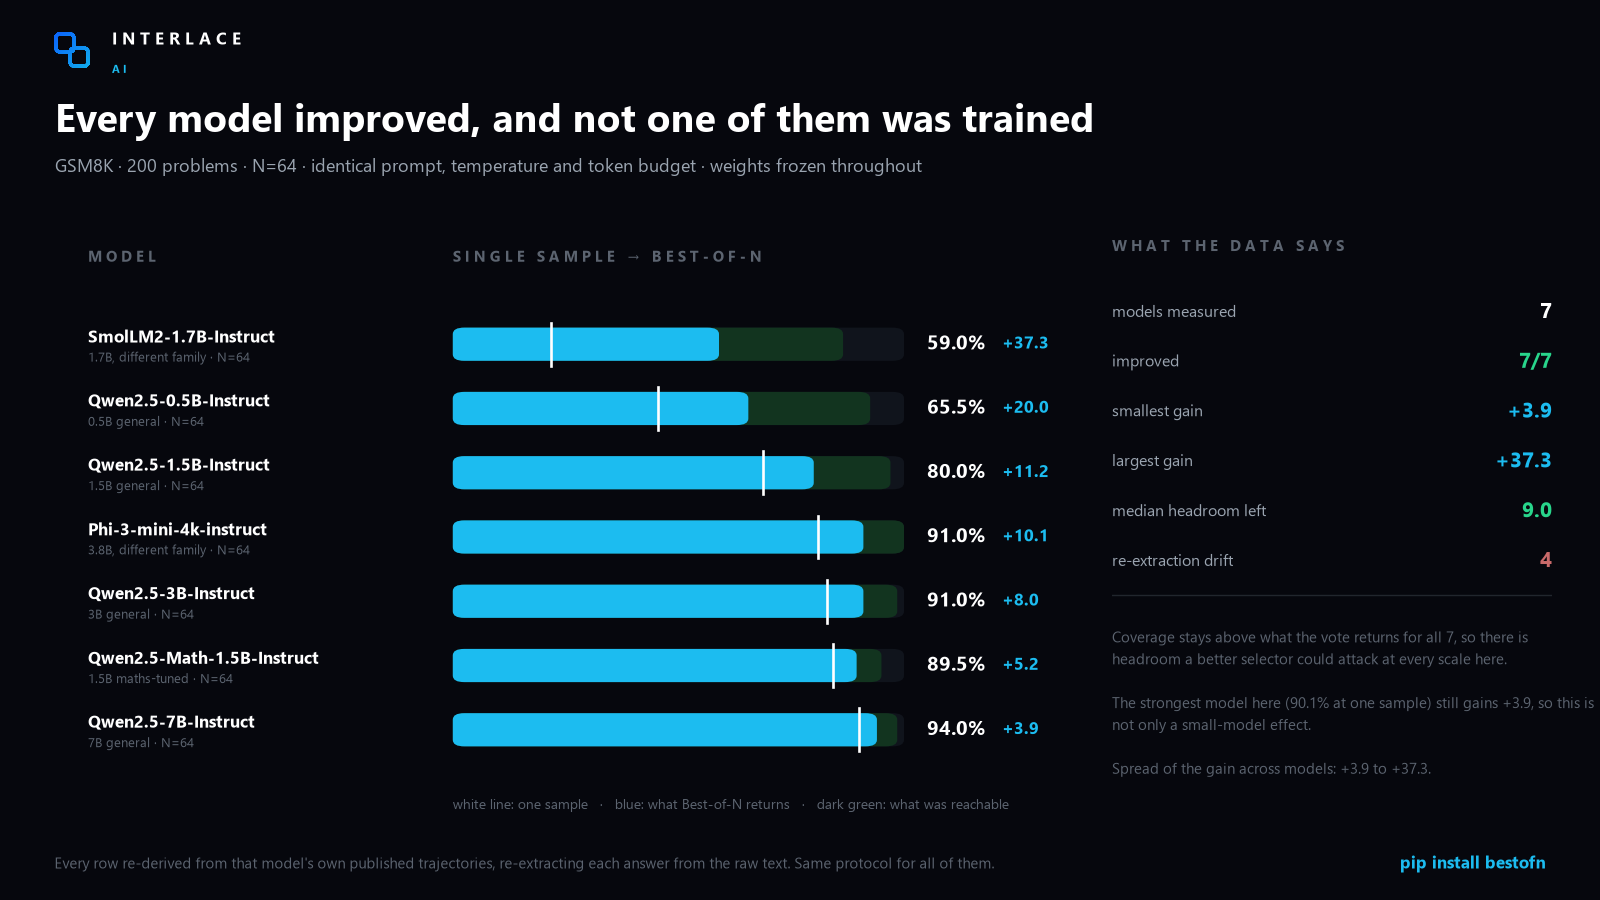
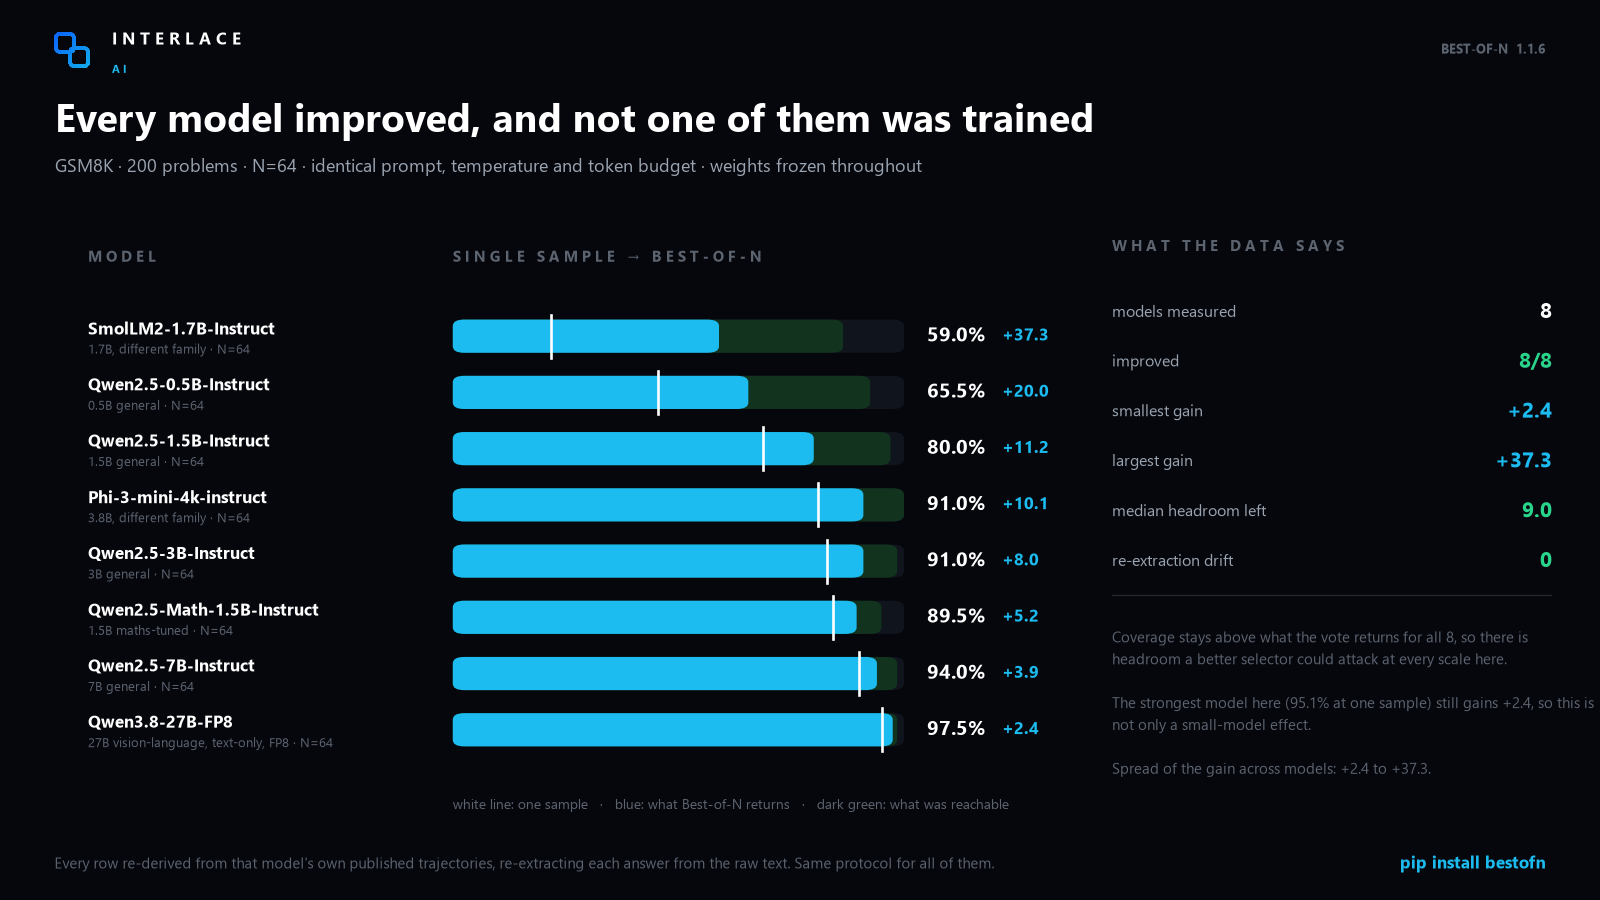
Best-of-N 1.1.7: eight models under one protocol, and what the sweep caught in itself
Same 200 GSM8K problems, same prompt, temperature, token budget and N=64,
weights frozen, every answer re-extracted from raw text. Every model improved,
from +37.3 points on SmolLM2-1.7B down to +2.4 on Qwen3.8-27B. The gain shrinks
steadily as the base model gets better, which is what should happen, and the
whole table is published rather than its best row.

Coverage stays above what the vote returns on all eight, median 9 points. Even
the strongest, at 95.1% from one sample, still fails to return answers it
already found.

The flagship row is the interesting one. It first measured +7.0, of which only
+0.2 was selection: it truncated 11.2% of its trajectories at a budget the
other seven ran comfortably inside, and a truncated trajectory abstains, so
almost the whole apparent gain was abstention avoidance. Raising the budget
twice: 1024 gave +7.0 (+0.2 selection), 2048 gave +4.5 (+0.9), 4096 gives +2.4
(+1.1). The baseline rises and the gain falls. A reader given only the first
row would have been given a number three times too large.

Also fixed, all found while chasing that row:

- max_model_len was hard-coded to 2048 while max_tokens was raised to 3072.
  The window covers prompt and generation together, so the larger budget bought
  nothing and three hours of GPU produced tokens the engine could never emit.
- max_num_seqs is configurable. The 27B is a hybrid Mamba model: every
  concurrent sequence needs a Mamba cache block, and a 48 GB card has room for
[…]

diff --git a/best-of-n/bestofn/__init__.py b/best-of-n/bestofn/__init__.py
@@ -27,7 +27,7 @@ from .extract import (equivalent, extract_boxed, extract_letter,
 from .select import (SELECTORS, Sample, abstentions, agreement, coverage,
                      effective_n, select)
 
-__version__ = "1.1.6"
+__version__ = "1.1.7"
 __author__ = "Alejandro Areces Rivera"
 __license__ = "Apache-2.0"
 

diff --git a/best-of-n/CHANGELOG.md b/best-of-n/CHANGELOG.md
@@ -2,6 +2,74 @@
 
 All notable changes to `bestofn`.
 
+## 1.1.7 — 2026-09-05
+
+Eight models under one protocol, and the trend they make.
+
+### The sweep
+
+Same 200 GSM8K problems, same prompt, same temperature, same token budget,
+N=64, weights frozen, every answer re-extracted from the raw text rather than
+read from a stored field. Every model improved. The gain runs from **+37.3**
+points on SmolLM2-1.7B to **+2.4** on Qwen3.8-27B, and it shrinks steadily as
+the base model gets better — which is what should happen, and is published as
+the whole table rather than as its best row.
+
+Coverage stays above what the vote returns on all eight, by a median of 9
+points. Even the strongest model here, at 95.1% from a single sample, is still
+failing to return answers it already found.
+
+### What the sweep caught in itself
+
+The 27B first measured **+7.0**, of which only **+0.2** was selection. It
+truncated 11.2% of its trajectories at the 1024-token budget the other models
+ran comfortably inside, and a truncated trajectory abstains — so almost the
+whole apparent gain was abstention avoidance. That is precisely the artefact
+the decomposition exists to expose, found in our own benchmark, on the flagship
+row.
+
+Raising the budget twice tells the rest of the story:
+
+| budget | truncated | one sample | Best-of-64 | gain | of which selection |
+|---:|---:|---:|---:|---:|---:|
+| 1024 | 11.2% | 88.5% | 95.5% | +7.0 | +0.2 |
+| 2048 | 6.7% | 93.0% | 97.5% | +4.5 | +0.9 |
+| **4096** | **3.7%** | **95.1%** | **97.5%** | **+2.4** | **+1.1** |
+
+The baseline rises and the gain falls as the budget grows. A reader given only
+the first row would have been given a number three times too large.
+
+A methodological note, because it caught us twice: the token distribution was
+measured from runs whose own cap censored it. "Nothing exceeds 1,929 tokens, so
+2048 truncates nothing" was read off data where 2048 *was* the maximum by
+construction. You cannot measure the tail of a distribution with the instrument
+that cuts it.
+
+### Fixed
+
+- **`max_model_len` was hard-coded to 2048** while `max_tokens` was raised to
+  3072. That window covers prompt and generation together, so the larger budget
+  bought nothing and three hours of GPU time were spent generating tokens the
+  engine could never emit. It is derived from the requested budget now.
+- **`max_num_seqs` is configurable.** Qwen3.8-27B is a hybrid Mamba/attention
+  model: each concurrent sequence needs its own Mamba cache block, and a 48 GB
+  card holding FP8 weights has room for 219 against vLLM's default of 256. The
+  model loaded on an 80 GB card and failed outright on a 48 GB one — nothing to
+  do with the weights fitting, which they do with room to spare.
+- **`run_models.py` re-extracts answers from the raw text** rather than reading
+  the stored `answer` field. Reading the stored one makes a replay that cannot
+  detect an extraction bug, only inherit it — the exact criticism this project
+  levels at other people's replays, and it was in our own new script.
+- The multi-model table is generated by `sync_docs.py` from the summary JSON,
+  so it cannot drift from the data independently of it.
+
+### Note
+
+The 27B row is the FP8 build Qwen publishes, and the label says so. FP8 weights
+are 30.9 GB against 55.6, which is a 48 GB card at $0.58/h rather than an 80 GB
+one at $2.34. Substituting a quantised build and presenting it as the base
+model would be the sort of quiet swap this library was written to catch.
+
 ## 1.1.6 — 2026-08-26
 
 A fifth adversarial audit. It re-derived every published number independently

diff --git a/best-of-n/README.md b/best-of-n/README.md
@@ -324,12 +324,12 @@ comparison where the protocol drifts between rows is not a comparison.
 | `microsoft/Phi-3-mini-4k-instruct`<br><sub>3.8B, different family · N=64</sub> | 80.9% | **91.0%** | **+10.1** | 100.0% |
 | `Qwen/Qwen2.5-3B-Instruct`<br><sub>3B general · N=64</sub> | 83.0% | **91.0%** | **+8.0** | 98.5% |
 | `Qwen/Qwen2.5-Math-1.5B-Instruct`<br><sub>1.5B maths-tuned · N=64</sub> | 84.3% | **89.5%** | **+5.2** | 95.0% |
-| `Qwen/Qwen3.8-27B`<br><sub>27B vision-language, text-only · N=64</sub> | 88.5% | **95.5%** | **+7.0** | 96.5% |
 | `Qwen/Qwen2.5-7B-Instruct`<br><sub>7B general · N=64</sub> | 90.1% | **94.0%** | **+3.9** | 98.5% |
+| `Qwen/Qwen3.8-27B-FP8`<br><sub>27B vision-language, text-only, FP8 · N=64</sub> | 95.1% | **97.5%** | **+2.4** | 98.5% |
 <!-- /auto:models -->
 
 <!-- auto:models_prose -->
-Every one of the 8 models we measured improved, by between **+3.9** and **+37.3** points, and none of them was trained. The gain shrinks as the base model gets better — which is what should happen, and is worth saying plainly rather than hiding behind the largest number in the table.
+Every one of the 8 models we measured improved, by between **+2.4** and **+37.3** points, and none of them was trained. The gain shrinks as the base model gets better — which is what should happen, and is worth saying plainly rather than hiding behind the largest number in the table.
 
 The row that matters more is coverage. It stays above what the vote returns on **every** model, by a median of 9.0 points: even the strongest one here is still failing to return answers it already found. That gap is the whole reason to work on selection rather than on sampling harder.
 <!-- /auto:models_prose -->

diff --git a/best-of-n/README_PYPI.md b/best-of-n/README_PYPI.md
@@ -313,12 +313,12 @@ comparison where the protocol drifts between rows is not a comparison.
 | `microsoft/Phi-3-mini-4k-instruct`<br><sub>3.8B, different family · N=64</sub> | 80.9% | **91.0%** | **+10.1** | 100.0% |
 | `Qwen/Qwen2.5-3B-Instruct`<br><sub>3B general · N=64</sub> | 83.0% | **91.0%** | **+8.0** | 98.5% |
 | `Qwen/Qwen2.5-Math-1.5B-Instruct`<br><sub>1.5B maths-tuned · N=64</sub> | 84.3% | **89.5%** | **+5.2** | 95.0% |
-| `Qwen/Qwen3.8-27B`<br><sub>27B vision-language, text-only · N=64</sub> | 88.5% | **95.5%** | **+7.0** | 96.5% |
 | `Qwen/Qwen2.5-7B-Instruct`<br><sub>7B general · N=64</sub> | 90.1% | **94.0%** | **+3.9** | 98.5% |
+| `Qwen/Qwen3.8-27B-FP8`<br><sub>27B vision-language, text-only, FP8 · N=64</sub> | 95.1% | **97.5%** | **+2.4** | 98.5% |
 <!-- /auto:models -->
 
 <!-- auto:models_prose -->
-Every one of the 8 models we measured improved, by between **+3.9** and **+37.3** points, and none of them was trained. The gain shrinks as the base model gets better — which is what should happen, and is worth saying plainly rather than hiding behind the largest number in the table.
+Every one of the 8 models we measured improved, by between **+2.4** and **+37.3** points, and none of them was trained. The gain shrinks as the base model gets better — which is what should happen, and is worth saying plainly rather than hiding behind the largest number in the table.
 
 The row that matters more is coverage. It stays above what the vote returns on **every** model, by a median of 9.0 points: even the strongest one here is still failing to return answers it already found. That gap is the whole reason to work on selection rather than on sampling harder.
 <!-- /auto:models_prose -->
